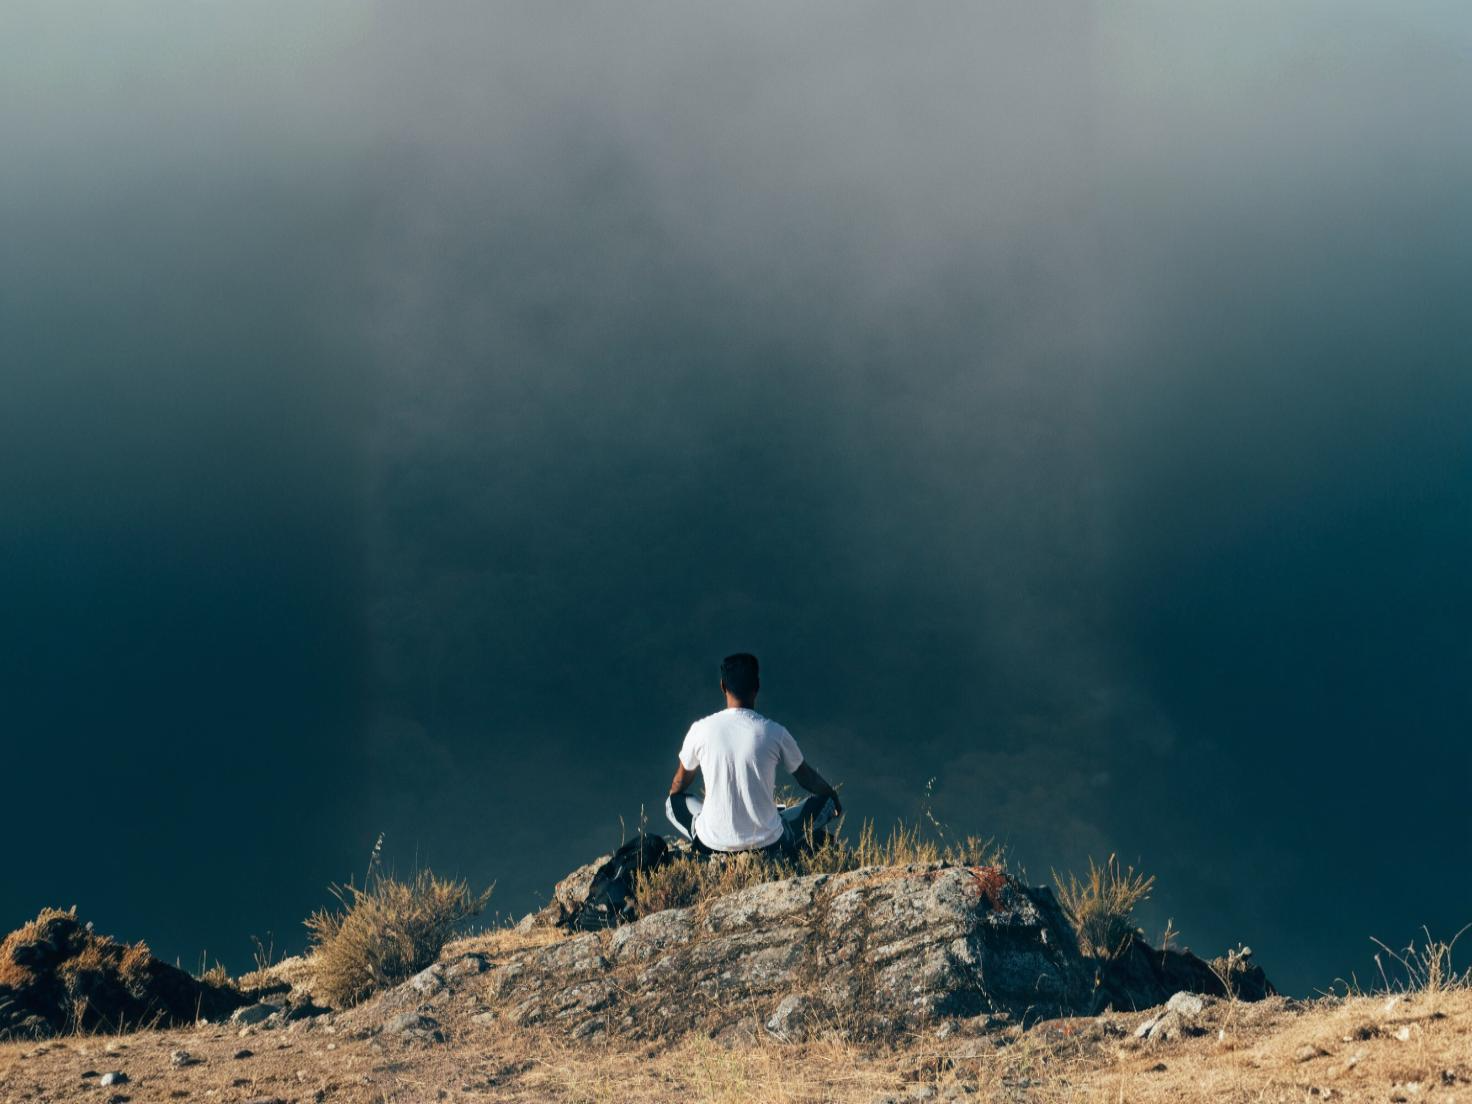
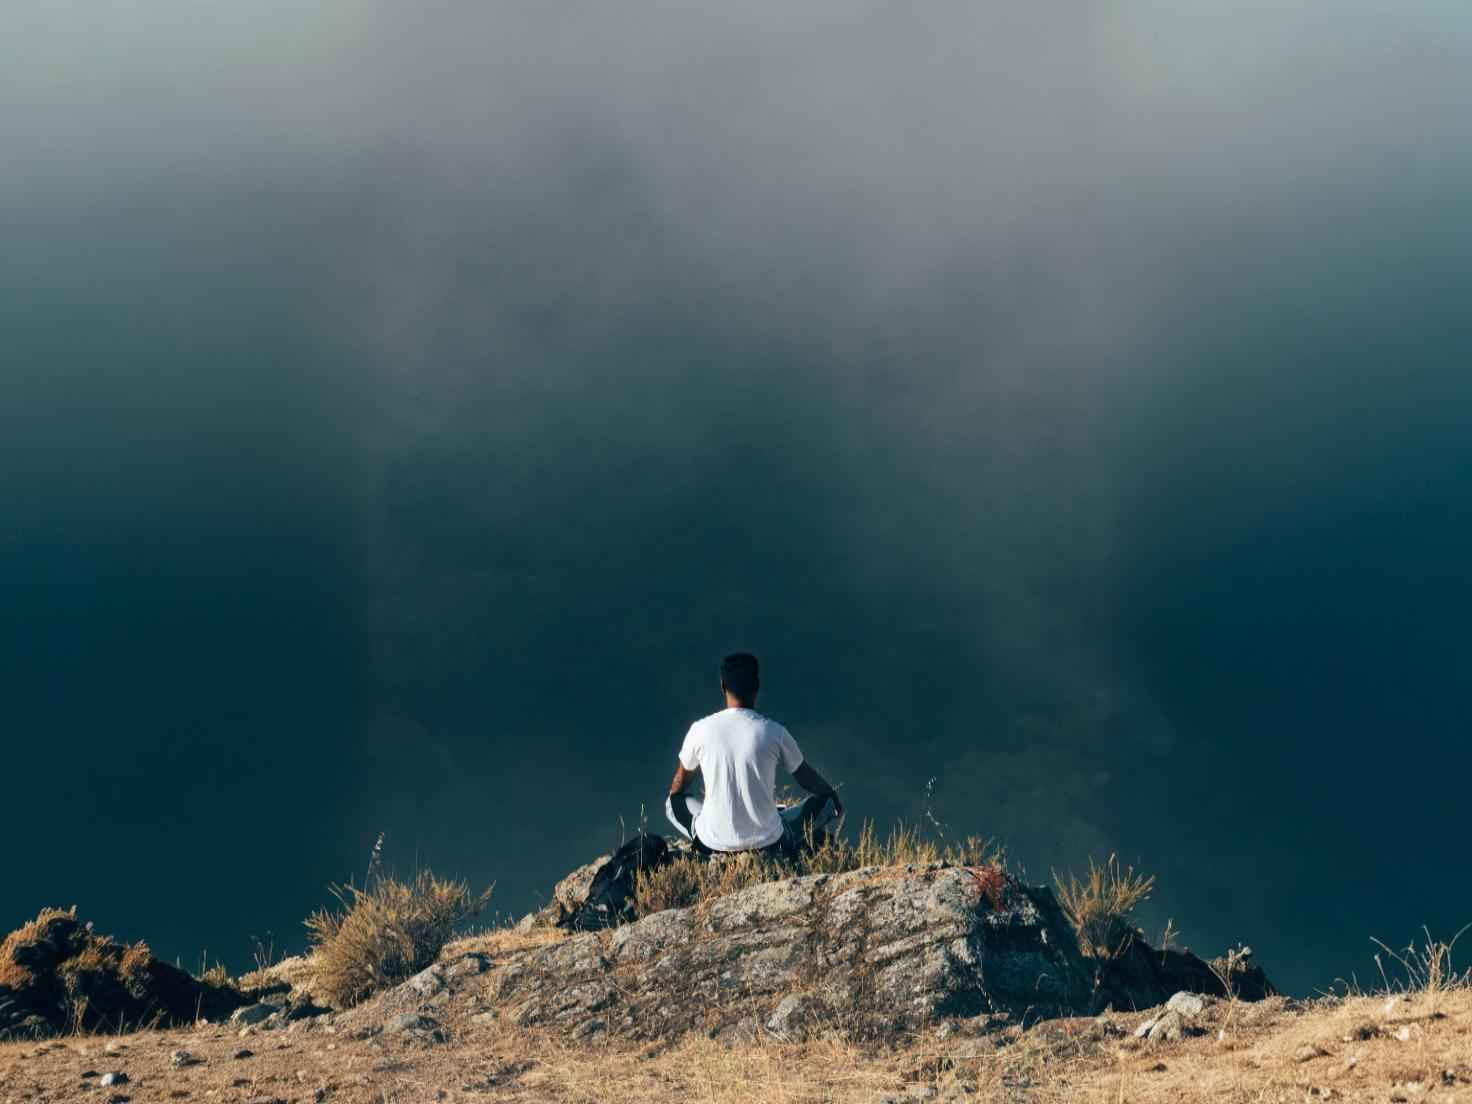
reduced sizes

Changed region(s): [[0.625, 0.9547, 0.6562, 0.9855], [0.4688, 0.7699, 0.5, 0.8007]]

diff --git a/index.html b/index.html
@@ -16,7 +16,7 @@
         }
     </style>
 </head>
-<body id="Home" background="./src/images/background.jpg">
+<body id="Home" background="./src/images/background_11zon.jpg">
     <ul class="hidden sm:flex sm:flex-row sm:text-center text-rose-900 sm:font-medium sm:justify-center sm:gap-7 sm:py-8 sm:px-36 font-bold">
         <li class="border-1 py-4 px-7 border-x-0"><a href="index.html">Home</a></li>
         <li class="border-1 py-4 px-7 border-x-0"><a href="#About">About</a></li>
@@ -96,13 +96,13 @@
     <div class="mt-10 sm:py-20" id="Programs">
       <span class="text-center sm:text-5xl text-3xl fredericka-the-great-regular"><h3>Programs</h3></span>
       <div class="flex flex-row flex-wrap sm:gap-18 gap-5 items-center justify-center p-14">
-        <div class="sm:w-72 sm:h-96 w-44 h-32 rounded-lg shadow-lg shadow-rose-900 drop-shadow-lg hover:scale-[1.025] hover:duration-500" style="background-color: rgba(210, 191, 105, 0.7);">
+        <div class="sm:w-72 sm:h-96 w-44 h-32 rounded-lg shadow-lg shadow-rose-900 drop-shadow-lg hover:scale-[1.025] hover:duration-500" style="background-color: rgba(210, 191, 105, 0.5);">
 
         </div>
-        <div class="sm:w-72 sm:h-96 w-44 h-32  rounded-lg shadow-lg shadow-rose-900 drop-shadow-lg hover:scale-[1.025] hover:duration-500" style="background-color: rgba(210, 191, 105, 0.7);">
+        <div class="sm:w-72 sm:h-96 w-44 h-32  rounded-lg shadow-lg shadow-rose-900 drop-shadow-lg hover:scale-[1.025] hover:duration-500" style="background-color: rgba(210, 191, 105, 0.5);">
 
         </div>
-        <div class="sm:w-72 sm:h-96 w-44 h-32  rounded-lg shadow-lg shadow-rose-900 drop-shadow-lg hover:scale-[1.025] hover:duration-500" style="background-color: rgba(210, 191, 105, 0.7);">
+        <div class="sm:w-72 sm:h-96 w-44 h-32  rounded-lg shadow-lg shadow-rose-900 drop-shadow-lg hover:scale-[1.025] hover:duration-500" style="background-color: rgba(210, 191, 105, 0.5);">
 
         </div>
       </div>
